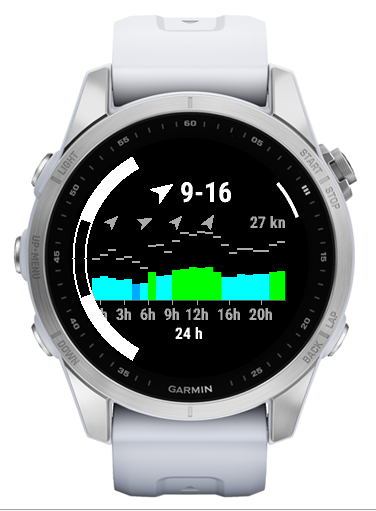
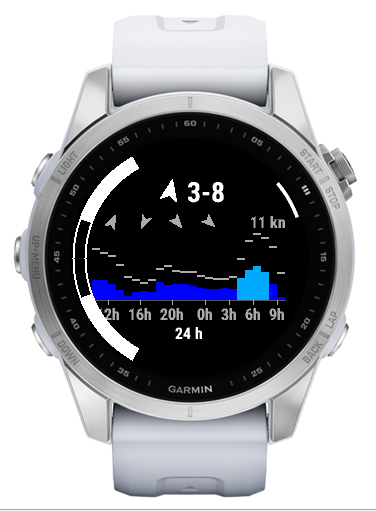
Keep showing the last known wind offline, marked when it is not current
The data was only shown for the exact rounded position it was requested
for, so in GPS mode the screen went blank offline as soon as the watch
moved into the next square. Now the last data always shows, with a pin
behind the wind when it is for another position and a clock when it
missed a refresh.

diff --git a/README.md b/README.md
@@ -13,6 +13,7 @@ WindWatch is a Garmin glance app that shows the wind at your favourite spot or w
 - **Favourite or GPS position:** the menu switches between the wind at your favourite spot and the wind where you are.
 - **Three forecast pages**, switched with DOWN and UP or by swiping: the next 3 hours in quarter hours, the next 24 and the next 72 hours in hours. Each page starts at the current sample, so a forecast stored without a connection never shows past hours. The title of the page shows right of the chart.
 - **Forecast chart:** bars colored by wind speed, light gray marks for the gusts and arrows above the bars for the wind direction.
+- **Offline:** without a connection the last known wind and forecast stay on screen, marked behind the wind when they are not the current ones: a pin when they are for another position, like before GPS moved on, and a clock when they missed a refresh, as the phone was offline or the request failed.
 - **Knots or km/h:** knots by default, km/h can be chosen in the app settings in Garmin Connect or Garmin Express.
 - **No API key** needed.
 
@@ -49,8 +50,8 @@ https://api.open-meteo.com/v1/forecast?latitude=46.29&longitude=6.17&current=win
 ```
 
 The view adds the hourly forecast with `&hourly=wind_speed_10m,wind_gusts_10m,wind_direction_10m&forecast_hours=72` and the quarter hourly one with `&minutely_15=...&forecast_minutely_15=12`, both starting now. The 24 hour page is cut from the hourly forecast.
-Positions are rounded to 2 decimals, about 1 km, which is finer than the weather models. The data is stored per rounded position, so switching between favourite and GPS never shows the wind of the other place, and GPS jitter asks for nothing new.
-Each kind of request is sent at most every 15 minutes per position, as often as Open-Meteo updates the current wind. Only a new position or Reload in the menu ask earlier.
+Positions are rounded to 2 decimals, about 1 km, which is finer than the weather models. The data is stored with its rounded position, so GPS jitter asks for nothing new. Data of another position, like after switching between favourite and GPS or moving on in GPS mode, shows with the pin until the new data comes in.
+Each kind of request is sent at most every 15 minutes per position, as often as Open-Meteo updates the current wind. Only a new position or Reload in the menu ask earlier. Data older than 30 minutes missed a refresh and shows with the clock.
 The app always requests km/h and converts for display, so a changed unit shows without a new request.
 Times are requested as unix times, which are smaller to parse and store on the watch than ISO times.
 All wind values are 10 m above ground, from the Open-Meteo `best_match` model. `scripts/check_api_contract.sh` checks the response at spots around the world and runs daily in CI.
